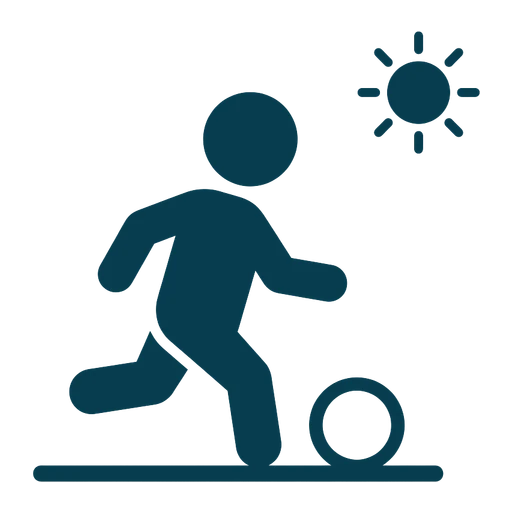
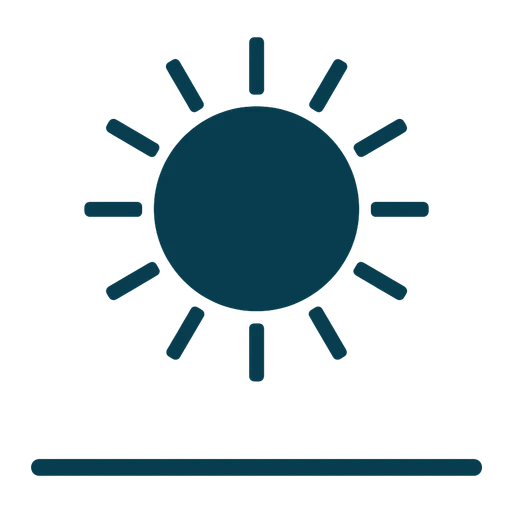
feat(daily_orientation): «Сейчас» — одно слово, новые пиктограммы дня и вечера, круг без часов
Карточка: подпись, пиктограмма, одно слово (без столбика утро/день/вечер/ночь).
День — солнце высоко над землёй (днём светло в любое время года, а занятия
бывают и вечером), вечер — только душ (маленькое солнце в углу читалось как
второй рожок). Модалка «Время суток» — четыре картинки по кругу, текущая
выделена, остальные бледнее, без часов.

Claude-Session: https://claude.ai/code/session_012EsPhvnsVXLrKVciDQQuBw

Changed region(s): [[0.0625, 0.0625, 0.9375, 0.9688], [0.875, 0.0938, 0.9062, 0.125]]

diff --git a/src/topics/renderers/daily_orientation/index.jsx b/src/topics/renderers/daily_orientation/index.jsx
@@ -617,7 +617,11 @@ function FitText({ className, children }) {
   );
 }
 
+// «Сейчас — УТРО»: the pictogram and one word (owner, 2026-11-24). The other
+// three parts are not listed here -- four words would compete for the one
+// answer; the cycle is in the modal.
 function DaypartCard({ daypartId, hidden, speakerButton, cardProps, caseText }) {
+  const label = DAYPARTS.find((part) => part.id === daypartId)?.label ?? "";
   return (
     <article
       className={`daily-orientation__card daily-orientation__card--daypart daily-orientation__card--daypart-${daypartId} daily-orientation__card--speakable${hidden ? " daily-orientation__card--daypart-hidden" : ""}`}
@@ -627,21 +631,8 @@ function DaypartCard({ daypartId, hidden, speakerButton, cardProps, caseText }) 
       {speakerButton}
       <img className="daily-orientation__daypart-picture" src={`/daily-orientation/daypart_${daypartId}.webp`} alt="" draggable="false" />
       <div className="daily-orientation__daypart-side">
-      <p className="daily-orientation__question">{CAPTION_DAYPART}</p>
-      {/* The whole cycle top to bottom, current part emphasised: shows both
-          "what now" and what comes before/after, the same idea as
-          вчера→сегодня→завтра. */}
-      <ol className="daily-orientation__daypart-strip">
-        {DAYPARTS.map((part) => (
-          <li
-            key={part.id}
-            className={`daily-orientation__daypart-step${part.id === daypartId ? " daily-orientation__daypart-step--current" : ""}`}
-            aria-current={part.id === daypartId ? "true" : undefined}
-          >
-            {caseText(part.label)}
-          </li>
-        ))}
-      </ol>
+        <p className="daily-orientation__question">{CAPTION_DAYPART}</p>
+        <p className="daily-orientation__daypart-word">{caseText(label)}</p>
       </div>
     </article>
   );
@@ -1307,7 +1298,7 @@ export default function DailyOrientationRenderer({ sessionParams, soundEnabled, 
           {openConcept === "week" && <WeekContent today={now} weekItems={weekItems} planPhotos={planPhotos} importantDates={importantDates} onSpeak={soundEnabled ? speakInModal : null} speakDays={cardSound} />}
           {openConcept === "date" && <DateContent activeDate={activeDate} today={now} importantDates={importantDates} pictureFor={importantPicture} />}
           {openConcept === "year" && <YearContent activeDate={now} importantDates={importantDates} pictureFor={importantPicture} />}
-          {openConcept === "daypart" && <DaypartContent daypartId={daypartId} bounds={bounds} />}
+          {openConcept === "daypart" && <DaypartContent daypartId={daypartId} />}
           {openConcept === "time" && (
             <div className="daily-orientation__time-modal">
               <AnalogClock now={now} />

diff --git a/src/topics/renderers/daily_orientation/ConceptModals.jsx b/src/topics/renderers/daily_orientation/ConceptModals.jsx
@@ -423,13 +423,9 @@ export function YearContent({ activeDate, importantDates = [], pictureFor = () =
 }
 
 // ── Время суток ───────────────────────────────────────────────────────
-export function DaypartContent({ daypartId, bounds }) {
-  const ranges = {
-    morning: [bounds.morning, bounds.day],
-    day: [bounds.day, bounds.evening],
-    evening: [bounds.evening, bounds.night],
-    night: [bounds.night, bounds.morning],
-  };
+// The cycle утро → день → вечер → ночь, now outlined, the rest paler; no
+// hours (owner, 2026-11-24): they are the adult's setting, not the child's.
+export function DaypartContent({ daypartId }) {
   return (
     <div className="dom">
       <h2 className="dom-title">Время суток</h2>
@@ -437,20 +433,17 @@ export function DaypartContent({ daypartId, bounds }) {
         {DAYPARTS.map((part, index) => (
           <li key={part.id} className="dom-cycle__slot">
             <div
-              className={`dom-cycle__item dom-daypart-tone--${part.id}${part.id === daypartId ? " dom-cycle__item--active" : ""}`}
+              className={`dom-cycle__item dom-daypart-tone--${part.id}${part.id === daypartId ? " dom-cycle__item--active" : " dom-cycle__item--other"}`}
               aria-current={part.id === daypartId ? "true" : undefined}
             >
               <img className="dom-cycle__picture" src={`/daily-orientation/daypart_${part.id}.webp`} alt="" draggable="false" />
               <span className="dom-cycle__name">{DAYPART_NAMES[part.id]}</span>
-              <span className="dom-cycle__months">
-                <span>{ranges[part.id][0]}:00 – {ranges[part.id][1]}:00</span>
-              </span>
             </div>
             {index < DAYPARTS.length - 1 ? <CycleArrow /> : null}
           </li>
         ))}
       </ol>
-      <p className="dom-cycle__note">После ночи снова наступает утро</p>
+      <p className="dom-cycle__note">После ночи снова утро</p>
     </div>
   );
 }

diff --git a/src/topics/renderers/daily_orientation/index.test.jsx b/src/topics/renderers/daily_orientation/index.test.jsx
@@ -138,11 +138,12 @@ describe("DailyOrientationRenderer", () => {
   });
 
   it("marks the current part of the day by the child's own wake/bed hours, today only", () => {
-    const currentStep = () => container.querySelector(".daily-orientation__daypart-step--current")?.textContent;
+    const currentStep = () => container.querySelector(".daily-orientation__daypart-word")?.textContent;
 
     mountAt(new Date(2026, 8, 22, 14, 35));
     expect(currentStep()).toBe("ДЕНЬ");
-    expect(container.querySelectorAll(".daily-orientation__daypart-step")).toHaveLength(4);
+    // One word: the other three parts are not listed on the card.
+    expect(container.querySelector(".daily-orientation__card--daypart").textContent).toBe("СейчасДЕНЬ");
     expect(container.querySelector(".daily-orientation__daypart-picture")?.getAttribute("src"))
       .toBe("/daily-orientation/daypart_day.webp");
 
@@ -517,12 +518,12 @@ describe("DailyOrientationRenderer", () => {
       expect(dialog.querySelector(".dom-year__phrase").textContent).toBe("Сейчас ноябрь");
     });
 
-    it("Время суток: the four parts with the child's own hours, and no modal for вчера/завтра", () => {
+    it("Время суток: the four parts as a cycle without hours, and no modal for вчера/завтра", () => {
       mountAt(new Date(2026, 8, 29, 20, 0), { wakeHour: 6, bedHour: 22 });
       const dialog = openFrom(".daily-orientation__card--daypart");
       expect(dialog.querySelector(".dom-cycle__item--active .dom-cycle__name").textContent).toBe("Вечер");
-      expect(dialog.textContent).toContain("6:00 – 12:00");
-      expect(dialog.textContent).toContain("22:00 – 6:00");
+      expect(dialog.textContent).not.toMatch(/\d/);
+      expect(dialog.querySelectorAll(".dom-cycle__item")).toHaveLength(4);
       act(() => container.querySelector(".daily-orientation__modal-close").click());
 
       const yesterday = Array.from(container.querySelectorAll("button")).find((b) => b.textContent === "Вчера");

diff --git a/src/topics/renderers/daily_orientation/dailyOrientation.css b/src/topics/renderers/daily_orientation/dailyOrientation.css
@@ -1504,3 +1504,26 @@ button.daily-orientation__plan-item:focus-visible { outline: 4px solid #db9f48; 
 .daily-orientation__night-next-photo { width: 8vmin; height: 8vmin; border-radius: 1.6vmin; object-fit: cover; filter: brightness(.75); }
 .daily-orientation__night-next-word { font-size: 4.6vmin; font-weight: 900; }
 .daily-orientation--sentence-case .daily-orientation__night-word { text-transform: none; }
+
+/* «Сейчас»: caption, the pictogram, one word, top to bottom (2026-11-24). */
+.daily-orientation__card.daily-orientation__card--daypart {
+  display: grid;
+  grid-template-columns: minmax(0, 1fr);
+  grid-template-rows: auto minmax(0, 1fr) auto;
+  justify-items: center;
+  align-items: center;
+  row-gap: 8px;
+  padding: var(--caption-top) 24px 26px;
+}
+.daily-orientation__card--daypart .daily-orientation__daypart-side { display: contents; }
+.daily-orientation__card--daypart .daily-orientation__question { grid-row: 1; }
+.daily-orientation__card--daypart .daily-orientation__daypart-picture { grid-row: 2; width: 100%; height: 100%; object-fit: contain; }
+.daily-orientation__daypart-word {
+  grid-row: 3;
+  margin: 0;
+  color: var(--orientation-ink);
+  font-size: min(80px, 100cqi / (5 * .78));
+  font-weight: 950;
+  line-height: 1;
+  text-align: center;
+}

diff --git a/src/topics/renderers/daily_orientation/conceptModals.css b/src/topics/renderers/daily_orientation/conceptModals.css
@@ -716,3 +716,5 @@
   font-weight: 900;
 }
 .dom-year__chip--event { background: #fff7dc; border: 3px solid #f2b544; }
+
+.dom-cycle__item--other { opacity: .55; }
